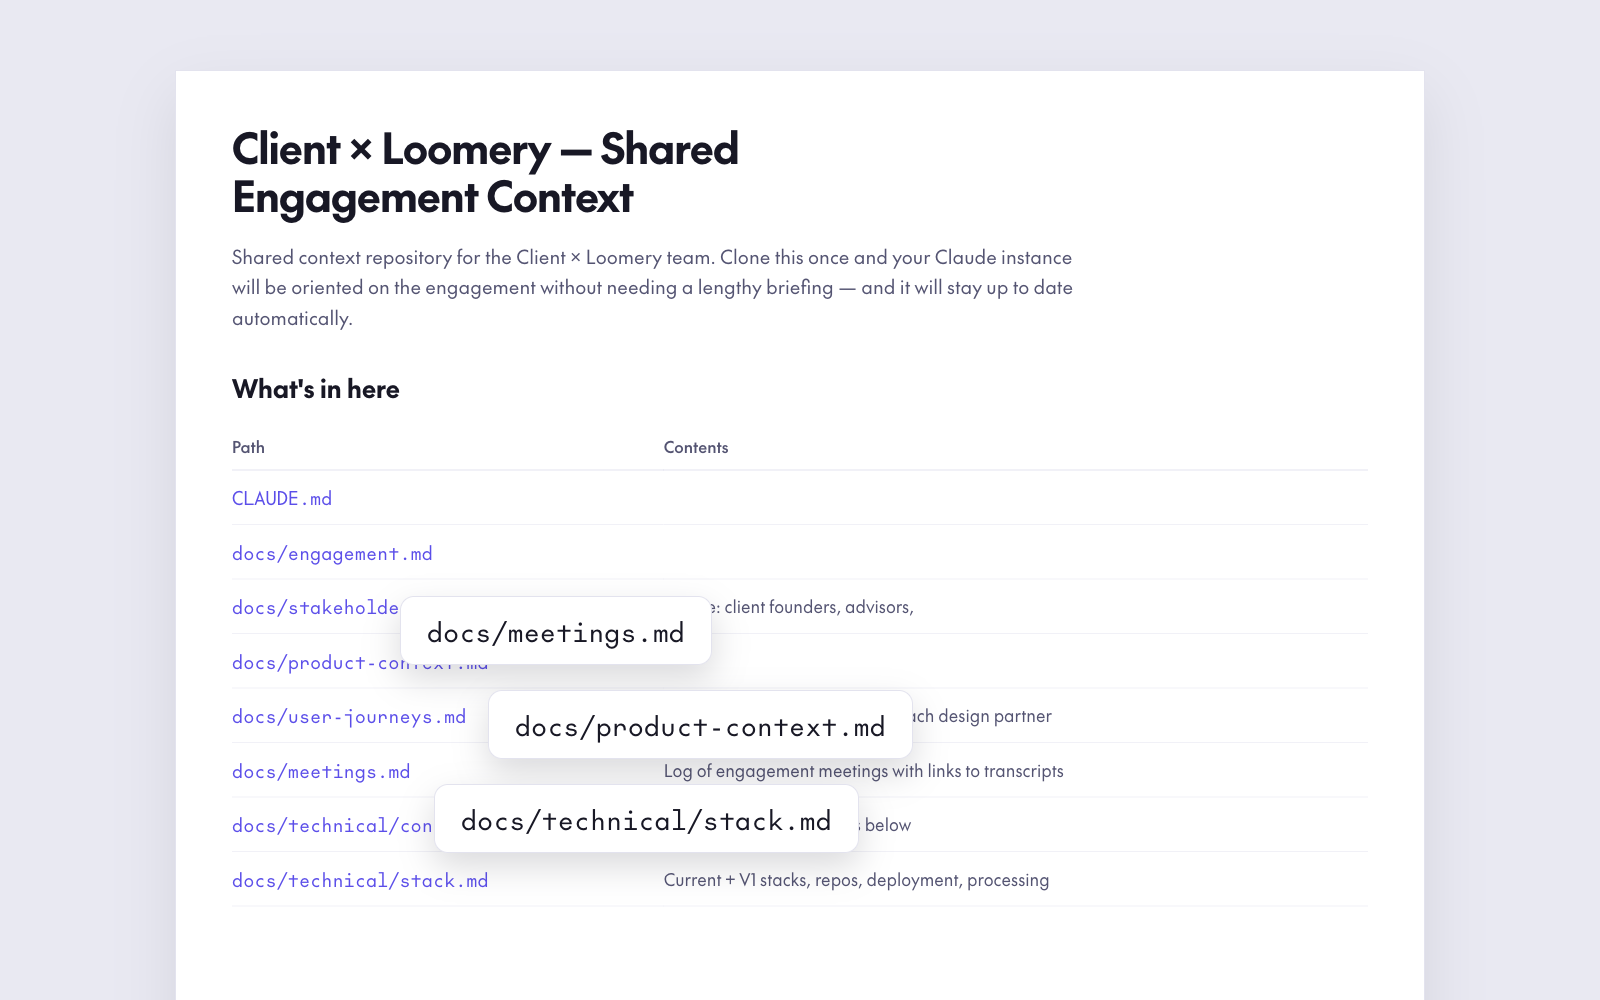
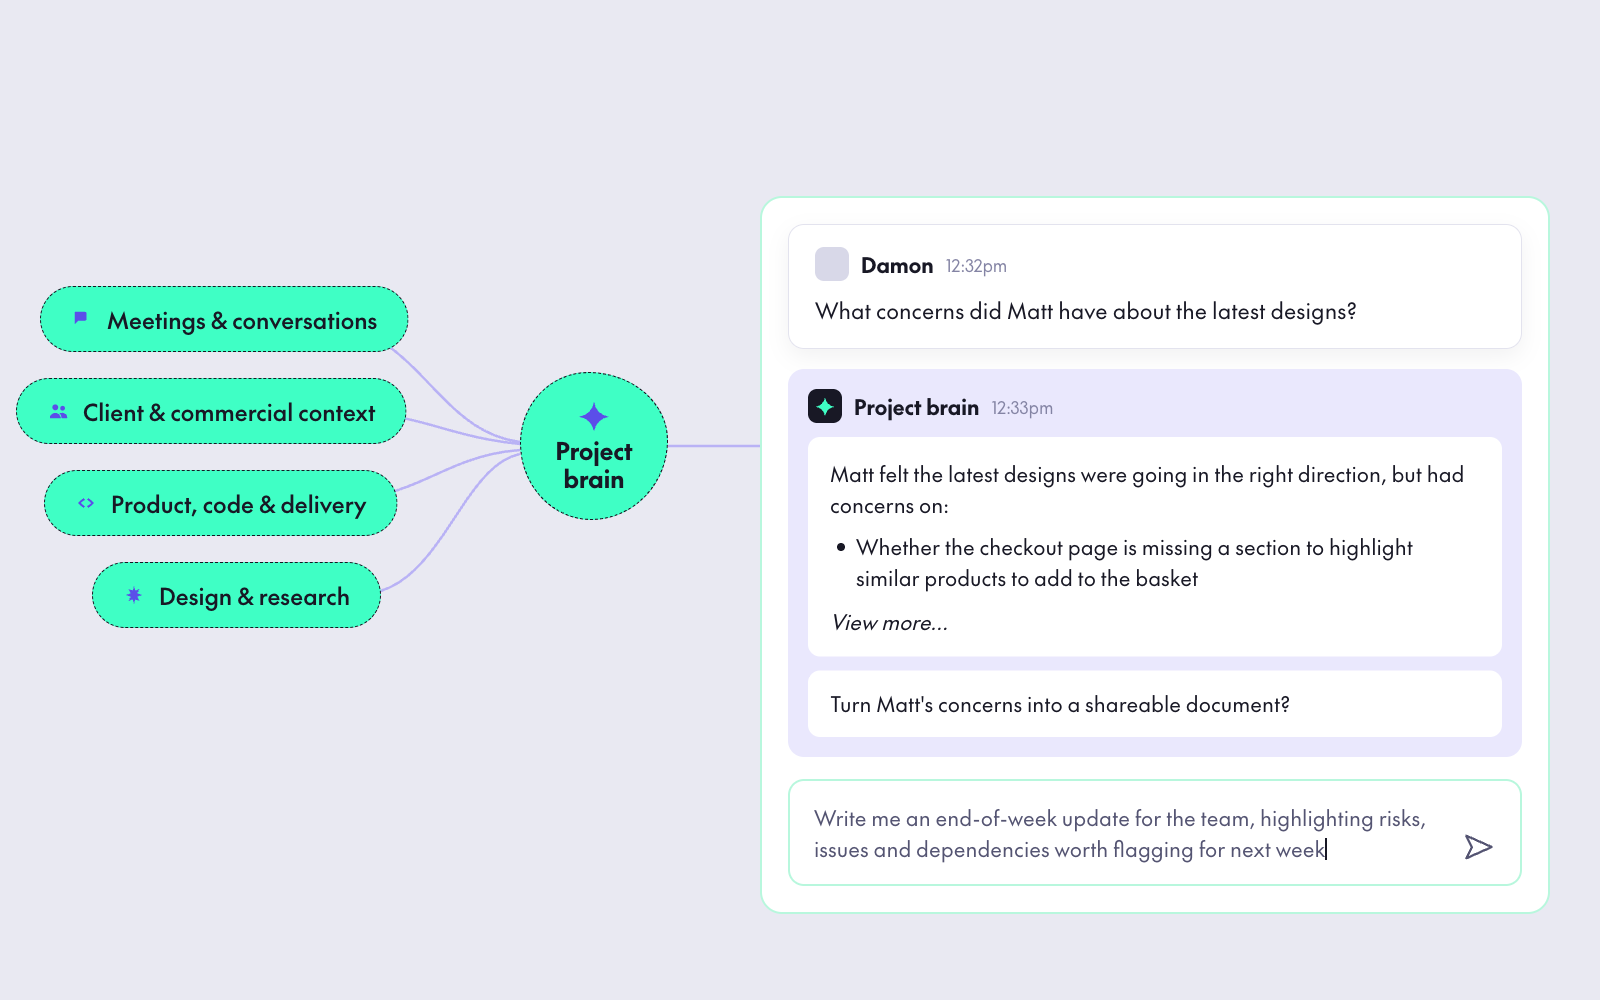
Rebuild the Warp mockup as the project brain
The file listing showed storage, not querying — so it contradicted the
new copy, "A queryable project brain". This shows the mechanism instead:
four sources (meetings, client context, product and code, design and
research) feeding one brain, and someone asking it what concerns came up
in a design review, with a follow-up and a prompt waiting.

Rendered on the same #e9e9f2 panel as Heddle and Bobbin, with the page's
own mint and indigo rather than the dark ground of the source slide, so
the three read as one set.

diff --git a/mockups/warp.html b/mockups/warp.html
@@ -1,44 +1,104 @@
 <meta charset="utf-8">
 <link rel="stylesheet" href="_base.css">
 <style>
-body{padding:0;background:#e9e9f2;display:grid;place-items:center}
-/* a crop of a longer doc: the card is taller and wider than the frame, so the
-   table runs off the bottom and right the way it does in a real screenshot */
-.crop{width:1600px;height:1000px;overflow:hidden;position:relative;
-  display:flex;justify-content:center;padding-top:70px}
-.doc{width:1250px;height:1120px;background:#fff;border:1px solid #e3e3ee;
-  box-shadow:0 24px 60px rgba(24,24,37,.10);padding:52px 56px;overflow:hidden}
-h1{font-size:42px;font-weight:600;line-height:1.14;letter-spacing:-.02em;color:#181825;max-width:20ch}
-.intro{margin-top:22px;font-size:19px;line-height:1.6;color:#545472;max-width:74ch}
-h2{margin-top:38px;font-size:25px;font-weight:600;color:#181825}
-table{margin-top:18px;width:100%;border-collapse:collapse}
-th{text-align:left;padding:12px 14px 12px 0;border-bottom:1px solid #e3e3ee;
-  color:#545472;font-weight:500;font-size:16px}
-td{padding:14px 14px 14px 0;border-bottom:1px solid #f1f1f7;vertical-align:top}
-td.p{width:38%;font-size:18px;color:#5b4ee9;white-space:nowrap}
-td.c{font-size:17px;line-height:1.45;color:#545472}
-.chip{position:absolute;background:#fff;border:1px solid #e3e3ee;border-radius:14px;
-  box-shadow:0 14px 34px rgba(24,24,37,.16);padding:15px 26px;font-size:26px;
-  color:#181825;white-space:nowrap}
+body{padding:0;background:#e9e9f2}
+.canvas{position:relative;width:1600px;height:1000px}
+
+/* ---- the four sources feeding the brain ---- */
+.src{position:absolute;display:flex;align-items:center;gap:14px;
+  background:#3fffc5;border:1px dashed #181825;border-radius:999px;
+  padding:16px 30px;font-size:23px;font-weight:500;color:#181825;white-space:nowrap}
+.src svg{width:22px;height:22px;fill:#5b4ee9;flex:none}
+.s1{left:40px;top:286px}
+.s2{left:16px;top:378px}
+.s3{left:44px;top:470px}
+.s4{left:92px;top:562px}
+
+.core{position:absolute;left:520px;top:372px;width:148px;height:148px;
+  background:#3fffc5;border:1px dashed #181825;border-radius:46% 54% 52% 48%/48% 46% 54% 52%;
+  display:flex;flex-direction:column;align-items:center;justify-content:center;gap:6px;
+  font-size:24px;font-weight:600;line-height:1.15;color:#181825;text-align:center}
+.core svg{width:30px;height:30px;fill:#5b4ee9}
+.wires{position:absolute;left:0;top:0;width:1600px;height:1000px;pointer-events:none}
+
+/* ---- the query panel ---- */
+.chat{position:absolute;left:760px;top:196px;width:790px;
+  border:2px solid #b8f7dd;border-radius:22px;padding:26px;background:#fff}
+.bub{background:#fff;border:1px solid #e3e3ee;border-radius:16px;padding:22px 26px;
+  box-shadow:0 8px 22px rgba(24,24,37,.06)}
+.who{display:flex;align-items:center;gap:12px;margin-bottom:12px}
+.av{width:34px;height:34px;border-radius:9px;background:#d8d8e8;flex:none}
+.av--b{background:#181825;display:grid;place-items:center}
+.av--b svg{width:19px;height:19px;fill:#3fffc5}
+.nm{font-size:21px;font-weight:600;color:#181825}
+.ts{font-size:17px;color:#8484a4}
+.q{font-size:22px;line-height:1.5;color:#181825}
+.ans{margin-top:20px;background:#eae8fd;border-radius:16px;padding:20px}
+.ans .who{margin-bottom:14px}
+.ans .card{background:#fff;border-radius:12px;padding:20px 22px}
+.ans p{font-size:21px;line-height:1.5;color:#181825}
+.ans ul{margin:10px 0 0;padding-left:26px}
+.ans li{font-size:21px;line-height:1.5;color:#181825}
+.more{margin-top:12px;font-size:19px;font-style:italic;color:#545472}
+.follow{margin-top:14px;background:#fff;border-radius:12px;padding:18px 22px;
+  font-size:21px;line-height:1.45;color:#181825}
+.input{margin-top:22px;border:2px solid #b8f7dd;border-radius:16px;padding:20px 24px;
+  display:flex;align-items:flex-end;gap:18px;background:#fff}
+.input p{font-size:21px;line-height:1.5;color:#545472}
+.input svg{width:34px;height:34px;fill:none;stroke:#545472;stroke-width:1.6;flex:none}
+.caret{display:inline-block;width:2px;height:22px;background:#181825;vertical-align:-3px}
 </style>
-<div class="crop">
-  <div class="doc">
-    <h1>Client × Loomery — Shared Engagement Context</h1>
-    <p class="intro">Shared context repository for the Client × Loomery team. Clone this once and your Claude instance will be oriented on the engagement without needing a lengthy briefing — and it will stay up to date automatically.</p>
-    <h2>What's in here</h2>
-    <table>
-      <tr><th>Path</th><th>Contents</th></tr>
-      <tr><td class="p mono">CLAUDE.md</td><td class="c"></td></tr>
-      <tr><td class="p mono">docs/engagement.md</td><td class="c"></td></tr>
-      <tr><td class="p mono">docs/stakeholders.md</td><td class="c">People: client founders, advisors,</td></tr>
-      <tr><td class="p mono">docs/product-context.md</td><td class="c"></td></tr>
-      <tr><td class="p mono">docs/user-journeys.md</td><td class="c">Step-by-step user journeys for each design partner</td></tr>
-      <tr><td class="p mono">docs/meetings.md</td><td class="c">Log of engagement meetings with links to transcripts</td></tr>
-      <tr><td class="p mono">docs/technical/context.md</td><td class="c">Index to the technical files below</td></tr>
-      <tr><td class="p mono">docs/technical/stack.md</td><td class="c">Current + V1 stacks, repos, deployment, processing</td></tr>
-    </table>
+<div class="canvas">
+  <svg class="wires" viewBox="0 0 1600 1000" fill="none" stroke="#b9b2f5" stroke-width="2.5">
+    <path d="M300 318 C 420 318 430 430 520 442"/>
+    <path d="M320 410 C 420 410 440 436 520 444"/>
+    <path d="M320 502 C 420 502 440 456 520 450"/>
+    <path d="M360 594 C 440 594 460 466 520 454"/>
+    <path d="M668 446 H 760"/>
+  </svg>
+
+  <div class="src s1">
+    <svg viewBox="0 0 24 24"><path d="M4 4h11a2 2 0 012 2v6a2 2 0 01-2 2H8l-4 4V4z"/></svg>
+    Meetings &amp; conversations
   </div>
-  <span class="chip mono" style="left:400px;top:596px">docs/meetings.md</span>
-  <span class="chip mono" style="left:488px;top:690px">docs/product-context.md</span>
-  <span class="chip mono" style="left:434px;top:784px">docs/technical/stack.md</span>
+  <div class="src s2">
+    <svg viewBox="0 0 24 24"><circle cx="9" cy="8" r="3.2"/><circle cx="17" cy="9" r="2.6"/><path d="M3 20c0-3.3 2.7-6 6-6s6 2.7 6 6H3zm13 0c0-2.2-.9-4.2-2.3-5.6 1-.3 2-.4 3.3-.4 2.8 0 5 2.2 5 5v1h-6z"/></svg>
+    Client &amp; commercial context
+  </div>
+  <div class="src s3">
+    <svg viewBox="0 0 24 24"><path d="M9.4 6.6L3 12l6.4 5.4 1.5-1.8L6.1 12l4.8-3.6L9.4 6.6zm5.2 0l-1.5 1.8L17.9 12l-4.8 3.6 1.5 1.8L21 12l-6.4-5.4z"/></svg>
+    Product, code &amp; delivery
+  </div>
+  <div class="src s4">
+    <svg viewBox="0 0 24 24"><path d="M12 2l1.3 5.2L18 5.6l-2.4 4.6L21 12l-5.4 1.8L18 18.4l-4.7-1.6L12 22l-1.3-5.2L6 18.4l2.4-4.6L3 12l5.4-1.8L6 5.6l4.7 1.6L12 2z"/></svg>
+    Design &amp; research
+  </div>
+
+  <div class="core">
+    <svg viewBox="0 0 24 24"><path d="M12 1c1 6.6 5.4 11 12 12-6.6 1-11 5.4-12 12-1-6.6-5.4-11-12-12 6.6-1 11-5.4 12-12z"/></svg>
+    Project<br>brain
+  </div>
+
+  <div class="chat">
+    <div class="bub">
+      <div class="who"><span class="av"></span><span class="nm">Damon</span><span class="ts">12:32pm</span></div>
+      <p class="q">What concerns did Matt have about the latest designs?</p>
+    </div>
+    <div class="ans">
+      <div class="who">
+        <span class="av av--b"><svg viewBox="0 0 24 24"><path d="M12 1c1 6.6 5.4 11 12 12-6.6 1-11 5.4-12 12-1-6.6-5.4-11-12-12 6.6-1 11-5.4 12-12z"/></svg></span>
+        <span class="nm">Project brain</span><span class="ts">12:33pm</span>
+      </div>
+      <div class="card">
+        <p>Matt felt the latest designs were going in the right direction, but had concerns on:</p>
+        <ul><li>Whether the checkout page is missing a section to highlight similar products to add to the basket</li></ul>
+        <p class="more">View more…</p>
+      </div>
+      <div class="follow">Turn Matt's concerns into a shareable document?</div>
+    </div>
+    <div class="input">
+      <p>Write me an end-of-week update for the team, highlighting risks, issues and dependencies worth flagging for next week<span class="caret"></span></p>
+      <svg viewBox="0 0 24 24"><path d="M3 20l18-8L3 4l4 8-4 8z" stroke-linejoin="round"/></svg>
+    </div>
+  </div>
 </div>

diff --git a/index.html b/index.html
@@ -207,7 +207,7 @@
           <div class="pscroll__frame">
         <div class="ppane" data-product="warp" data-on>
           <div class="media" data-media="warp">
-            <img src="images/product-warp.png" alt="Warp: a shared engagement context repo — the project docs an agent reads, listed by path" loading="lazy" width="1600" height="1000">
+            <img src="images/product-warp.png" alt="Warp: meetings, client context, product and design all feeding one project brain, with someone asking it what concerns came up in a design review" loading="lazy" width="1600" height="1000">
           </div>
         </div>
         <div class="ppane" data-product="heddle">
